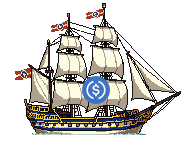
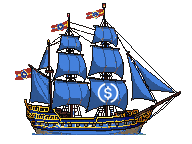
feat(ships): regen USDC titan as imperial frigate with baked blue sails
Replaces the prior generic USDC titan sprite with a 192x144 imperial
4-master (gilded hull, three-tier gun ports, red pennants). Cream sails
are baked to USDC blue with luminance shading and a white $ + broken
ring is painted directly into the central mainsail's main course,
mirroring crvUSD's heraldic-llama integration rather than the previous
runtime sticker overlay.

Because the sail cloth ships pre-colored, runtime sail-tinting would
overpaint the white emblem. Drop SHIP_SAIL_TINT_MASKS["ship.usdc-titan"]
and add the id to UNTUNED_TITAN_IDS so the coverage gate is skipped on
the baked sprite. usdc-circle joins SHIP_SAIL_EMBLEM_PAINTED to
suppress the matte-sticker fallback. Manifest dimensions, anchor,
hitbox, footprint, and per-titan SHIP_SAIL_MARKS / SHIP_TRIM_MARKS
offsets are re-tuned for the larger sprite.

diff --git a/src/renderer/layers/ships.ts b/src/renderer/layers/ships.ts
@@ -29,6 +29,7 @@ export const SHIP_SAIL_EMBLEM_OVERRIDES: Record<string, string> = {
 
 export const SHIP_SAIL_EMBLEM_PAINTED: ReadonlySet<string> = new Set([
   "crvusd-curve",
+  "usdc-circle",
   ...Object.keys(SHIP_SAIL_EMBLEM_OVERRIDES),
 ]);
 
@@ -38,7 +39,7 @@ export const SHIP_SAIL_MARKS: Record<string, { height: number; width: number; x:
   "crypto-caravel": { height: 14, width: 17, x: 8, y: -26 },
   "dao-schooner": { height: 14, width: 17, x: 8, y: -27 },
   "treasury-galleon": { height: 16, width: 19, x: 10, y: -31 },
-  "ship.usdc-titan": { height: 21, width: 25, x: 4, y: -52 },
+  "ship.usdc-titan": { height: 28, width: 28, x: -14, y: -52 },
   "ship.usds-titan": { height: 19, width: 23, x: 3, y: -45 },
   "ship.usdt-titan": { height: 50, width: 78, x: -4, y: -52 },
   // Maker consorts seeded from ship.usds-titan; tuning in Task 7.5.
@@ -96,10 +97,10 @@ export const SHIP_TRIM_MARKS: Record<string, ShipTrimSpec> = {
     deck: [{ x: -10, y: -23, width: 8, height: 4 }, { x: 8, y: -21, width: 7, height: 3 }],
   },
   "ship.usdc-titan": {
-    rail: [-53, -20, 48, -11],
-    keel: [-48, -5, 42, 0],
-    stern: { x: -60, y: -27, width: 16, height: 7 },
-    deck: [{ x: -17, y: -31, width: 13, height: 6 }, { x: 13, y: -27, width: 11, height: 5 }],
+    rail: [-64, -22, 58, -12],
+    keel: [-58, -5, 52, 0],
+    stern: { x: -72, y: -30, width: 17, height: 7 },
+    deck: [{ x: -20, y: -34, width: 14, height: 6 }, { x: 16, y: -30, width: 12, height: 5 }],
   },
   "ship.usds-titan": {
     rail: [-44, -18, 40, -8],

diff --git a/src/renderer/ship-sail-tint.test.ts b/src/renderer/ship-sail-tint.test.ts
@@ -37,7 +37,6 @@ const MIN_SAIL_COVERAGE: Record<string, number> = {
   "ship.dao-schooner": 0.34,
   "ship.sdai-titan": 0.38,
   "ship.treasury-galleon": 0.34,
-  "ship.usdc-titan": 0.38,
   "ship.usds-titan": 0.34,
   "ship.usdt-titan": 0.38,
 };
@@ -47,9 +46,15 @@ const MIN_SAIL_COVERAGE: Record<string, number> = {
 // the strict coverage gate without sprite regeneration or heuristic
 // widening. Their masks are still tuned (see SHIP_SAIL_TINT_MASKS) but the
 // per-pixel gate is skipped until the underlying sprites are fixed.
+//
+// ship.usdc-titan ships with USDC-blue sail cloth and a white $ glyph baked
+// directly into the sprite (mirrors crvUSD's heritage hull). It has no
+// SHIP_SAIL_TINT_MASKS entry so runtime tinting is a no-op by design;
+// listed here so the equality check filters it from both sides.
 const UNTUNED_TITAN_IDS = new Set([
   "ship.susds-titan",
   "ship.stusds-titan",
+  "ship.usdc-titan",
 ]);
 
 // Heritage hulls (unique tier) whose painted sail color falls outside
@@ -98,8 +103,10 @@ describe("ship sail tint masks", () => {
   });
 
   it("does not leave large titan sail fragments outside the tint mask", () => {
+    // ship.usdc-titan is omitted: its sails are baked USDC blue + painted
+    // white $ glyph (see UNTUNED_TITAN_IDS), so there is no tint mask to
+    // verify against — the sprite ships its own colorway end to end.
     for (const assetId of [
-      "ship.usdc-titan",
       "ship.usds-titan",
       "ship.usdt-titan",
       "ship.dai-titan",

diff --git a/src/renderer/ship-sail-tint.ts b/src/renderer/ship-sail-tint.ts
@@ -54,17 +54,11 @@ export const SHIP_SAIL_TINT_MASKS: Record<string, SailMaskSpec> = {
       [[58, 23], [73, 34], [67, 64], [58, 61]],
     ],
   },
-  "ship.usdc-titan": {
-    bounds: { x: 34, y: 8, width: 96, height: 90 },
-    polygons: [
-      [[34, 57], [70, 15], [78, 84], [43, 78]],
-      [[36, 52], [53, 19], [68, 17], [57, 47], [46, 57]],
-      [[70, 25], [96, 16], [97, 76], [74, 73]],
-      [[95, 28], [125, 43], [116, 84], [96, 76]],
-      [[101, 60], [126, 72], [116, 93], [99, 83]],
-      [[73, 79], [96, 76], [105, 94], [81, 91]],
-    ],
-  },
+  // ship.usdc-titan intentionally absent: the sprite ships with USDC-blue
+  // sail cloth and a white $ glyph baked directly into the PNG (mirrors the
+  // crvUSD heritage-hull pattern). Runtime tinting would over-paint the
+  // white emblem and is therefore disabled by omission. Marked in
+  // ship-sail-tint.test.ts::UNTUNED_TITAN_IDS so the coverage gate is skipped.
   "ship.usds-titan": {
     bounds: { x: 26, y: 15, width: 96, height: 79 },
     polygons: [
